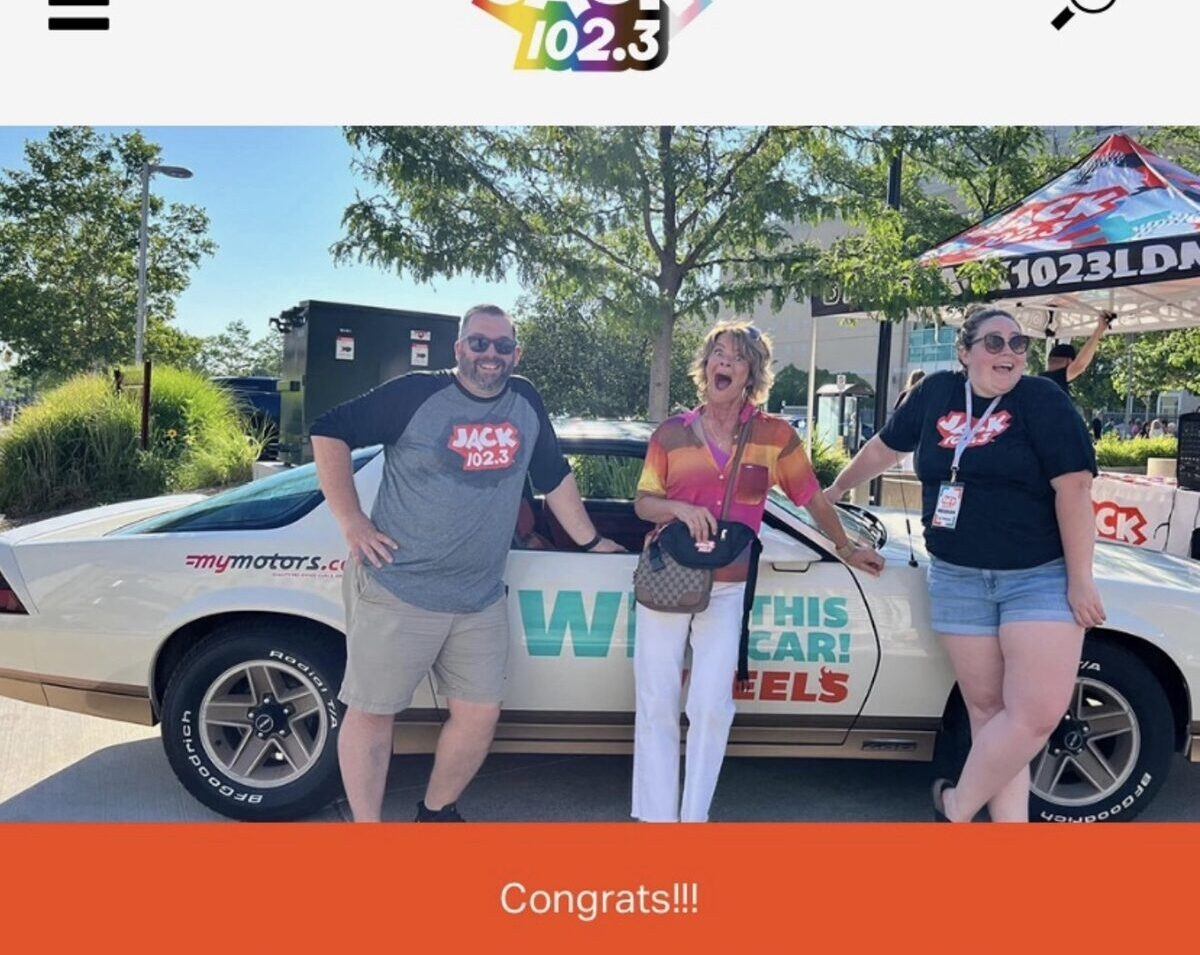
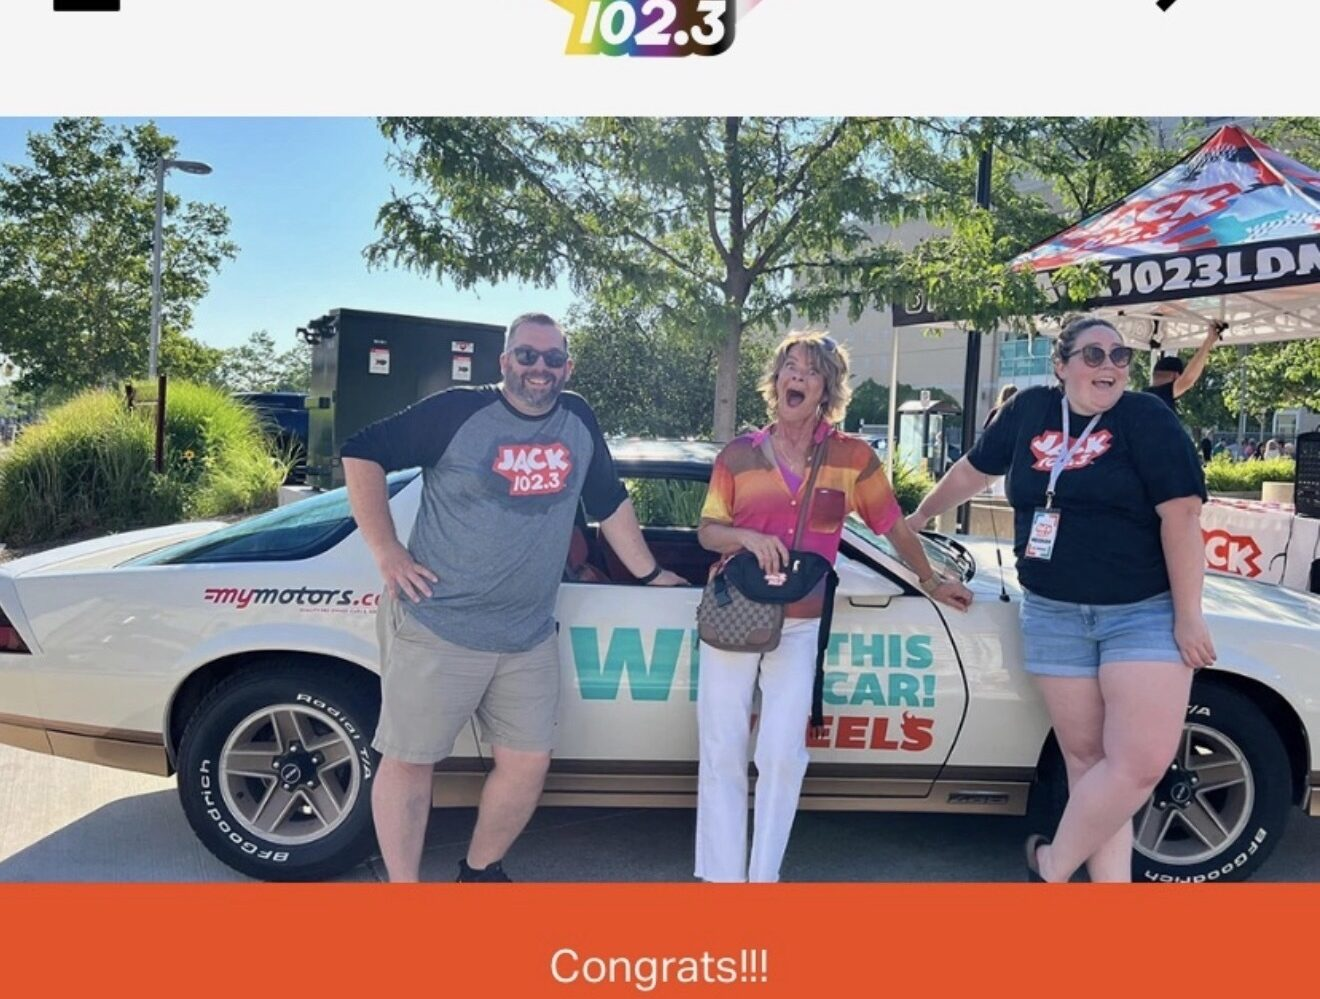
About: always side-by-side 50/50; cleaner photo crop

diff --git a/simple-site/about/index.html b/simple-site/about/index.html
@@ -141,39 +141,38 @@
 
     .about-wrap {
       display: flex;
-      flex-direction: column;
-      gap: 16px;
+      flex-direction: row;
+      align-items: flex-start;
+      gap: 12px;
+      width: 100%;
       max-width: 720px;
       margin: 0 auto;
+      padding: 0 4px;
       text-align: left;
-    }
-    @media (min-width: 700px) {
-      .about-wrap {
-        flex-direction: row;
-        align-items: flex-start;
-        gap: 24px;
-      }
+      box-sizing: border-box;
     }
     .about-photo {
-      flex: 0 0 auto;
-      width: 100%;
-      max-width: 280px;
-      margin: 0 auto;
-      border-radius: 8px;
+      flex: 0 0 48%;
+      width: 48%;
+      max-width: 48%;
+      height: auto;
+      margin: 0;
+      border-radius: 6px;
       display: block;
-    }
-    @media (min-width: 700px) {
-      .about-photo {
-        width: 42%;
-        max-width: 300px;
-        margin: 0;
-      }
+      object-fit: cover;
+      object-position: center top;
     }
     .about-copy {
-      flex: 1 1 auto;
+      flex: 1 1 52%;
+      min-width: 0;
       color: #fff4e6;
-      font-size: 16px;
-      line-height: 1.55;
+      font-size: 14px;
+      line-height: 1.45;
+      padding-top: 2px;
+    }
+    @media (min-width: 700px) {
+      .about-copy { font-size: 16px; line-height: 1.55; }
+      .about-wrap { gap: 20px; }
     }
     .about-copy p { margin: 0; }
 </style>
@@ -197,7 +196,7 @@
     <div class="about-wrap">
       <img
         class="about-photo"
-        src="../assets/about-jenny.jpg?v=1"
+        src="../assets/about-jenny.jpg?v=2"
         alt="Jenny winning the '84 Camaro"
         width="600"
         height="480"
